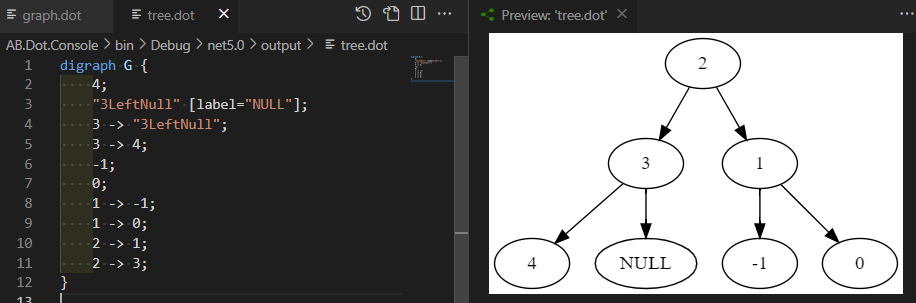
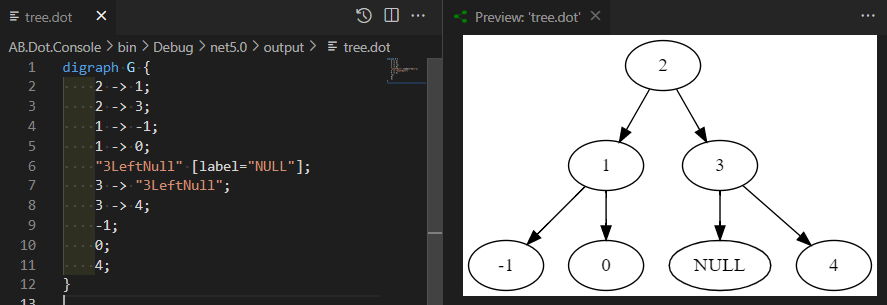
DOT file generator for tree and graph
- update documentation and the example project

diff --git a/AB.Dot.Console/Program.cs b/AB.Dot.Console/Program.cs
@@ -25,7 +25,7 @@ namespace AB.Dot.Console
             var node1 = new Node {Key = 1, Left = node_1, Right = node0};
             var node2 = new Node {Key = 2, Left = node1, Right = node3};
             
-            var nodes = new List<Node> { node4, node3, node_1, node0, node1, node2 }; // the product of any traversal algorithm 
+            var nodes = new List<Node> { node2, node1, node3, node_1, node0, node4}; // the product of any traversal algorithm 
             await new BTreeWriter("./output").WriteDotAsync(nodes, "tree.dot");
 
             System.Console.WriteLine("Done!");

diff --git a/README.md b/README.md
@@ -25,9 +25,9 @@ await new GraphWriter("./output").WriteDotAsync(graph, "graph.dot");
 
 ![Example](./img/graph.png)
 
-# [Tree Example](https://github.com/ABorovtsov/AB.Dot/blob/main/AB.Dot.Console/Program.cs#L29)
+# [Binary Tree Example](https://github.com/ABorovtsov/AB.Dot/blob/main/AB.Dot.Console/Program.cs#L29)
 
-The code below generates the dot-file for a tree represented as a collection of nodes generated by any traversal algorithm. The node could have any type but must have the 'Key', 'Left' and 'Right' as properties.
+The code below generates the dot-file for a binary tree represented as a collection of nodes generated by any traversal algorithm. The node could have any type but must have the 'Key', 'Left' and 'Right' as properties.
 
 ```c#
 var nodes = new List<Node> { node4, node3, node_1, node0, node1, node2 }; // the product of any traversal algorithm 
